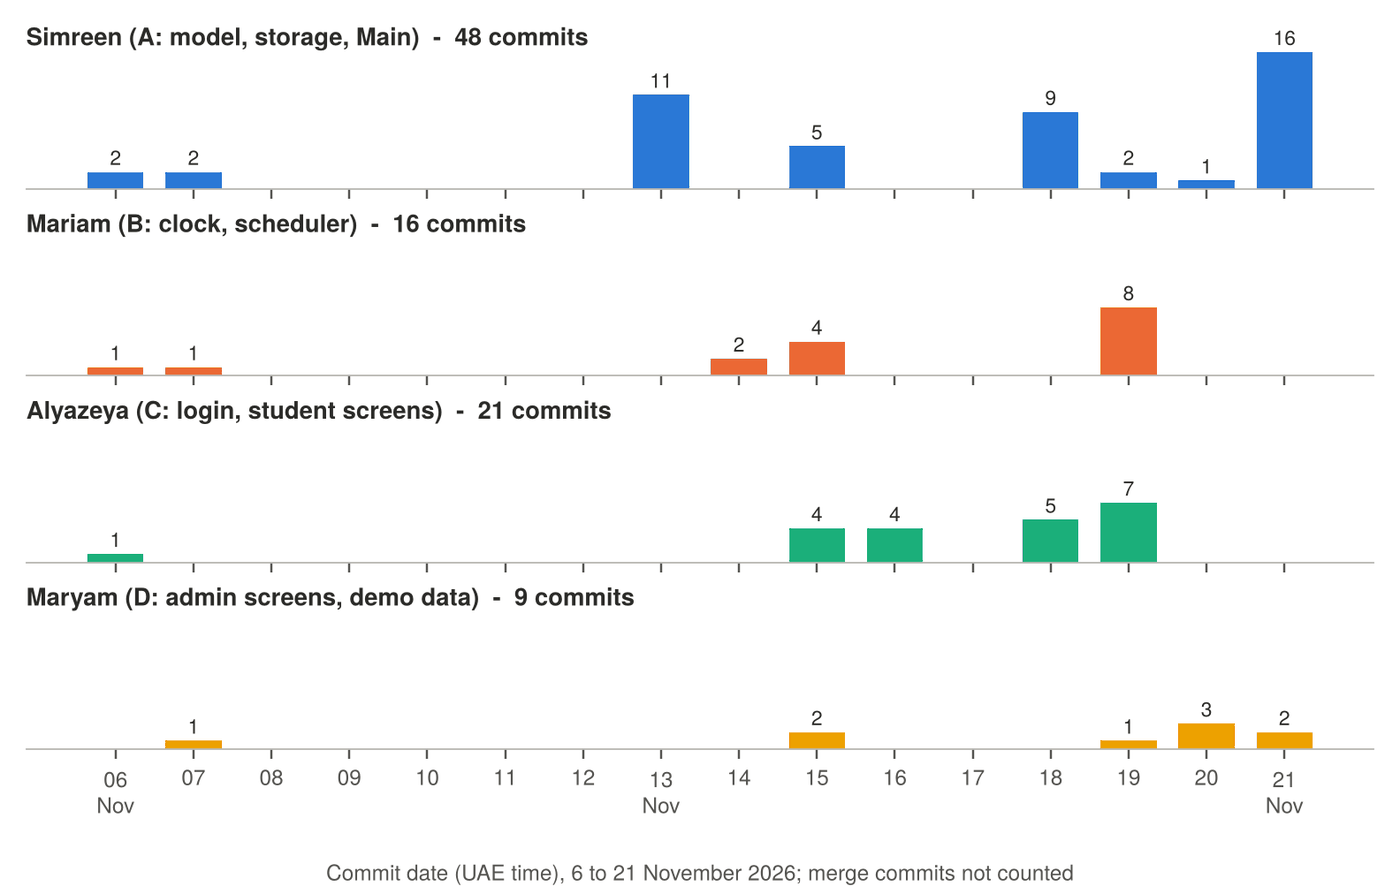
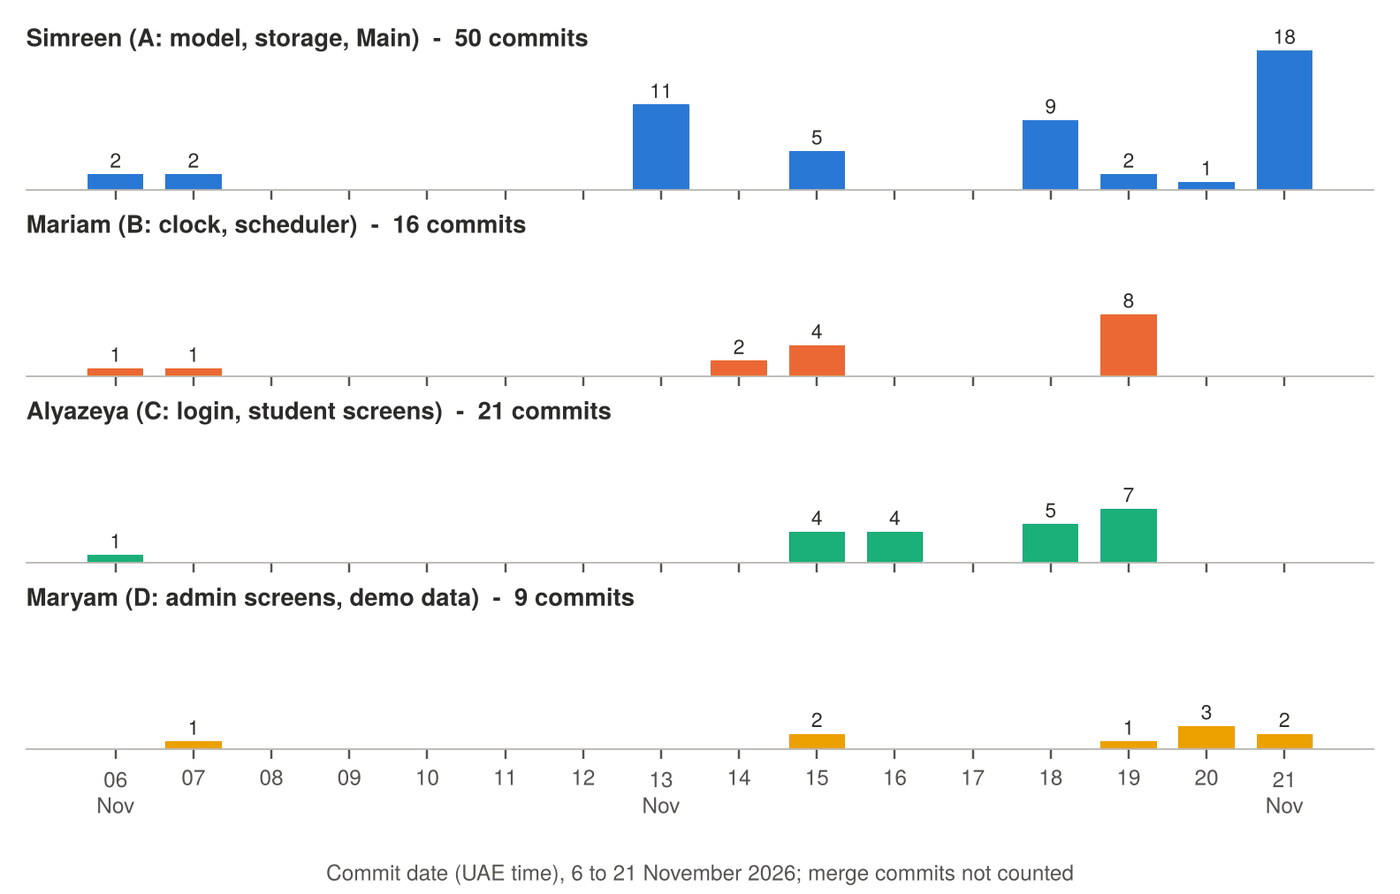
simpler leap year check, diamond <> where the type is already known, store is final

diff --git a/src/storage/DataStore.java b/src/storage/DataStore.java
@@ -33,10 +33,10 @@ public class DataStore {
 
     public void save(AppData data, SimulationClock clock) throws IOException {
         Files.createDirectories(Paths.get(folder));
-        writeFile("students.csv", new ArrayList<Storable>(data.getStudents().values()));
-        writeFile("requests.csv", new ArrayList<Storable>(data.getRequests()));
-        writeFile("jobs.csv", new ArrayList<Storable>(data.getJobs()));
-        writeFile("grants.csv", new ArrayList<Storable>(data.getGrants()));
+        writeFile("students.csv", new ArrayList<>(data.getStudents().values()));
+        writeFile("requests.csv", new ArrayList<>(data.getRequests()));
+        writeFile("jobs.csv", new ArrayList<>(data.getJobs()));
+        writeFile("grants.csv", new ArrayList<>(data.getGrants()));
 
         // year,month,day,hour,minute,elapsedMinutes. empty file if the clock isn't set yet
         ArrayList<String> clockLine = new ArrayList<>();

diff --git a/src/logic/SimulationClock.java b/src/logic/SimulationClock.java
@@ -58,14 +58,8 @@ public boolean isSet() {
 }
 
 private static boolean isLeapYear (int year) {
-	if (year%4==0) {
-		if (year%100==0 && year%400==0) {
-			return true;
-		}
-		if (year%100==0) {return false;}
-		return true;}
-	return false;
-	}
+	return (year%4==0 && year%100!=0) || year%400==0;
+}
 
 private static int daysInMonth(int month, int year){
 	if (isLeapYear(year) && month==2) {

diff --git a/src/ui/Main.java b/src/ui/Main.java
@@ -18,7 +18,7 @@ public class Main {
     public static AccountService accounts;
     public static Scheduler scheduler;
     public static SimulationClock clock = new SimulationClock();
-    private static DataStore store = new DataStore();
+    private static final DataStore store = new DataStore();
 
     public static void main(String[] args) {
         try {

diff --git a/src/ui/StudentFrame.java b/src/ui/StudentFrame.java
@@ -98,7 +98,7 @@ public class StudentFrame extends JFrame implements ActionListener {
 		descriptionArea.setLineWrap(true);
 		descriptionArea.setWrapStyleWord(true);
 
-		sizeBox = new JComboBox<TaskSize>(TaskSize.values());
+		sizeBox = new JComboBox<>(TaskSize.values());
 		durationLabel = new JLabel();
 		submitButton = new JButton("Submit Job");
 

diff --git a/src/ui/MyJobsPanel.java b/src/ui/MyJobsPanel.java
@@ -40,7 +40,7 @@ public class MyJobsPanel extends JPanel implements ActionListener {
 
         searchField = new JTextField(20);
 
-        statusBox = new JComboBox<String>(
+        statusBox = new JComboBox<>(
                 new String[] {
                         "All",
                         "QUEUED",
